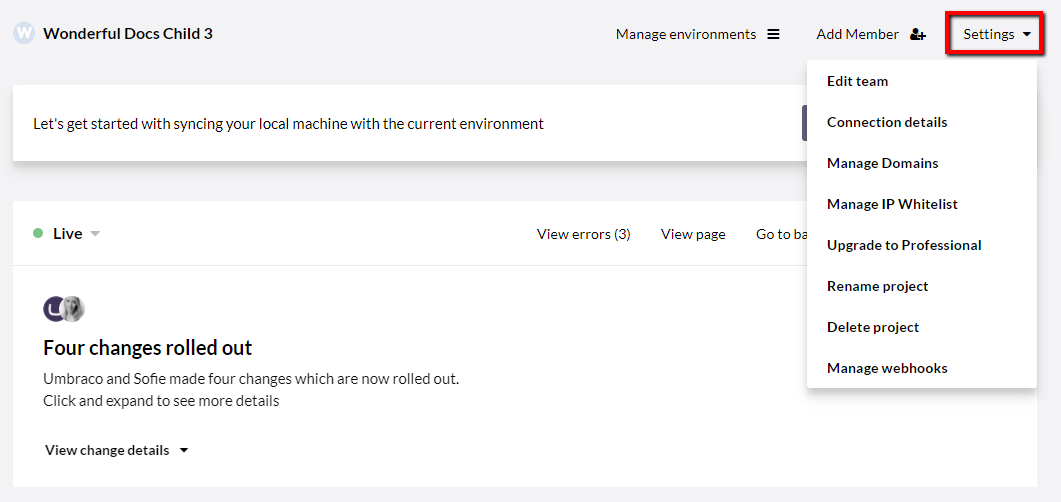
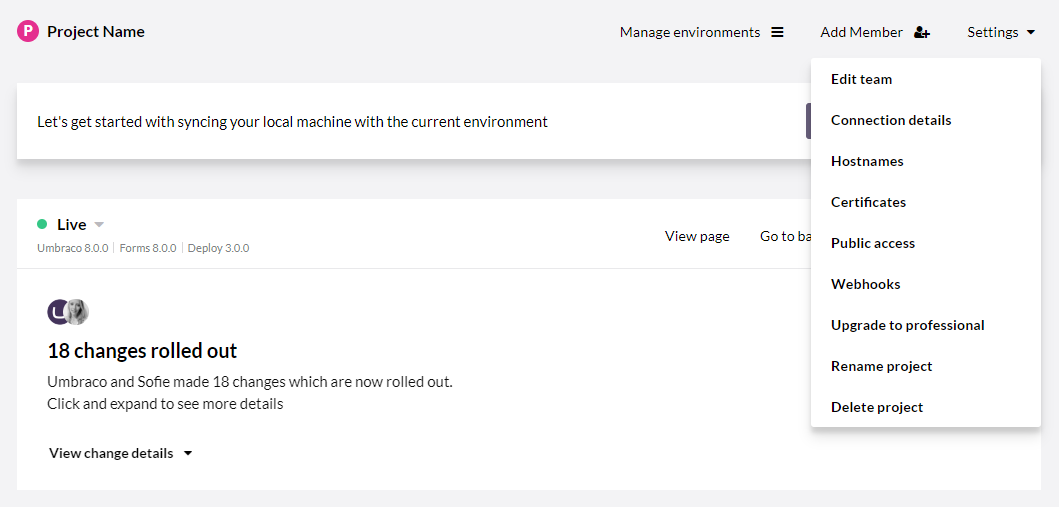
Updated with new names and pages + image

diff --git a/Umbraco-Cloud/Set-Up/Project-settings/index.md b/Umbraco-Cloud/Set-Up/Project-settings/index.md
@@ -22,21 +22,33 @@ This is where you go to find connection details to your Umbraco Cloud databases.
 
 You will need to whitelist your IP in order to connect to the databases with your local machine - this can also be done from this page.
 
-## [Manage domains](../Manage-Domains)
+## [Hostnames](../Manage-Hostnames)
 
-Binding hostnames and domains to your Umbraco Cloud project is easily done from the Umbraco Cloud Portal - the page is called **Manage Domains**.
+Binding hostnames to your Umbraco Cloud project is easily done from the Umbraco Cloud Portal - the page is called **Hostnames**.
 
-This is also the page you go to when you want to add security certificates to your project.
+## [Certificates](../Manage-Hostnames/Security-Certificates)
 
-## Manage IP Whitelist
+All hostnames added to your Umbraco Cloud environments will automatically be assigned a security certificate - we call this feature [Umbraco Latch](../Umbraco-Latch).
 
-This is where you go to whitelist IP's for the basic authentication that's enabled on Development and Staging environments. Simply add the IP's to the list under the environment you want to open access to, and we'll take care of the rest!
+Sometimes you might want to upload  and bind your own security certificate to your hostnames. This can easily be  done from the **Certificates** page.
 
-If you are on a Trial plan, you can also whitelist IP's for bypassing the basic authentication on the Live environment - on paid projects the basic authentication will be disabled by default on the Live environment.
+## Public access
 
-## Upgrade your project
+All Staging and Development environments on Umbraco Cloud projects are by default protected by *basic authentication* which require you to enter your Cloud credentials in order to view the frontend. You can disable / enable this authentication with one click on the **Public access** page.
 
-From the *Settings* menu you can easily upgrade your Umbraco Cloud Starter plan to a Professional plan.
+:::note
+On **Trial** projects the basic authentication is enabled on the Live environment. This cannot be removed before setting up a subscription for the Cloud project.
+:::
+
+On the **Public access** page you can also whitelist IPs which will allow for viewing the frontend of the Staging and/or Development environments when accessed from the whitelisted IPs.
+
+## [Webhooks](../../Deployment/Deployment-webhook)
+
+On Umbraco Cloud projects we've made it possible to configure a deployment webhook on your environments. This will be triggered upon successful deployments, you can configure where you would like information about the deployment to be posted.
+
+## Upgrade to Professional
+
+From the *Settings* menu you can easily upgrade your project to a Professional plan.
 
 The option will not be available when you are already on a Professional plan or if you are running in Trial mode.
 
@@ -45,15 +57,11 @@ The option will not be available when you are already on a Professional plan or 
 You might need to rename your Umbraco Cloud project - find the option to do that from the *Settings* menu. 
 
 :::note
-If you are working locally you need to update the origin of your local git repository to point to the new clone url. Alternatively to make a fresh local clone of the project, once you’ve changed your project name.
+If you are working locally you need to update the origin of your local git repository to point to the new clone url. Alternatively you can make a fresh local clone of the project, once you’ve changed your project name.
 :::
 
 If you want to delete your Umbraco Cloud project you can find the option to do this from the *Settings* menu as well. Deleting your Umbraco Cloud project is permanent - all data, media, databases, configuration, setup, and domain bindings are removed in the process.
 
 :::note
-Deleting your Umbraco Cloud project will also cancel any subscriptions you have set up for your project.
+Deleting your Umbraco Cloud project will also cancel any subscriptions you have set up for the project.
 :::
-
-## [Deployment Webhook](../../Deployment/Deployment-webhook)
-
-On Umbraco Cloud projects we've made it possible to configure a deployment webhook on your environments. This will be triggered upon successful deployments, you can configure where you would like information about the deployment to be posted.
